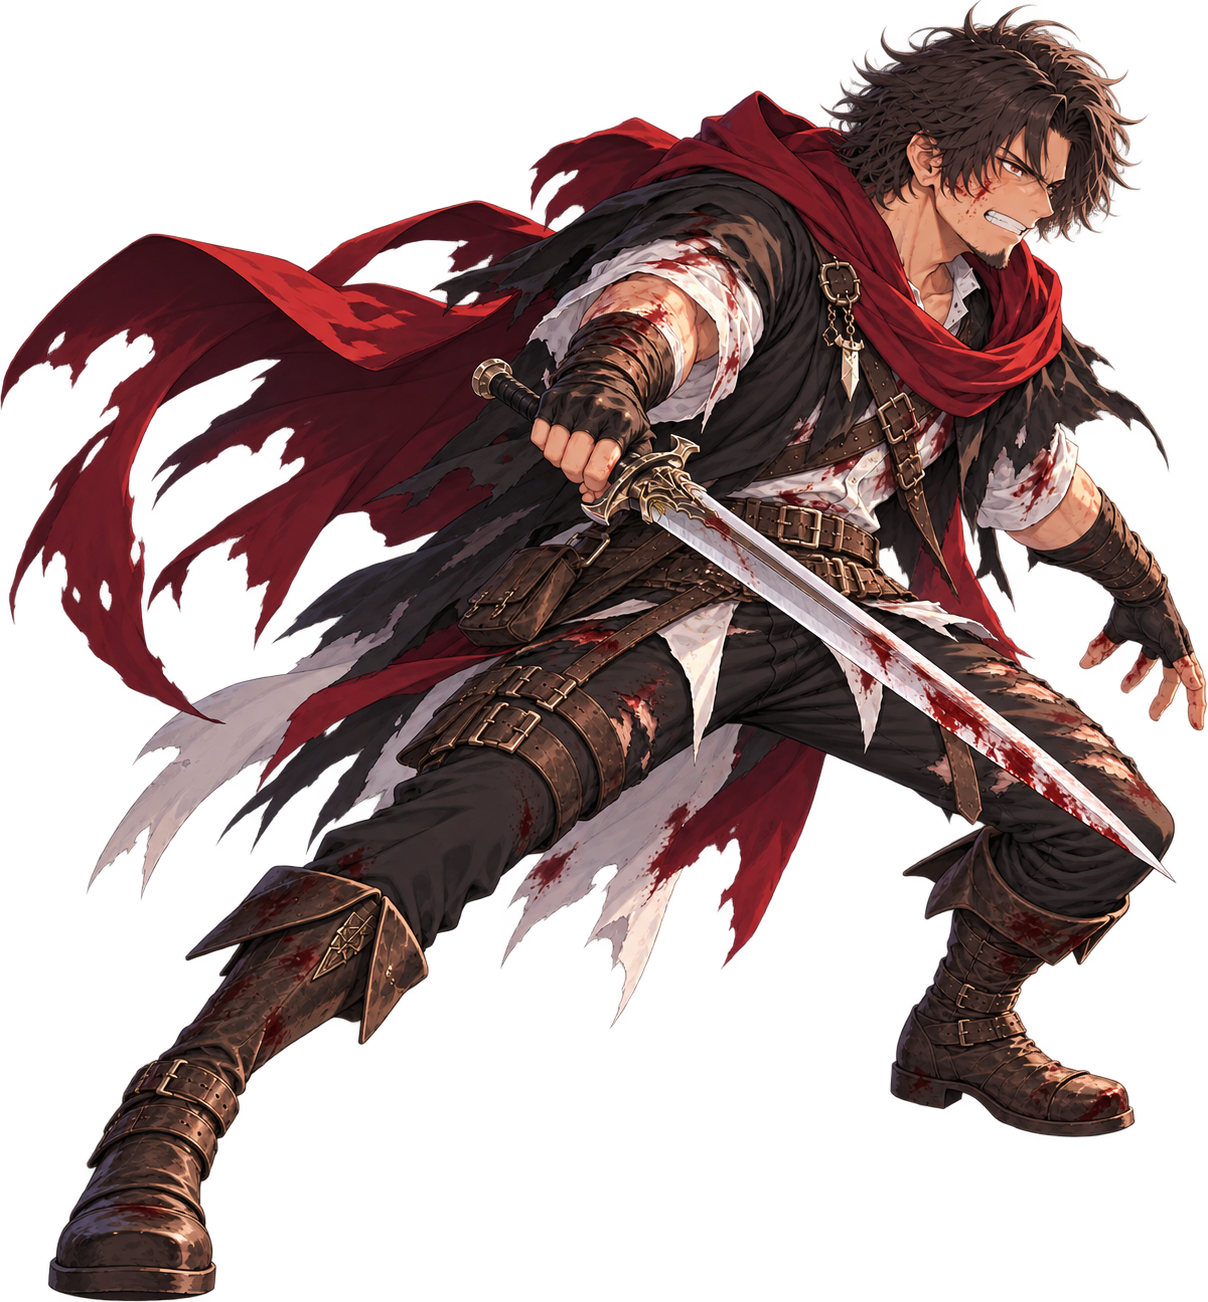
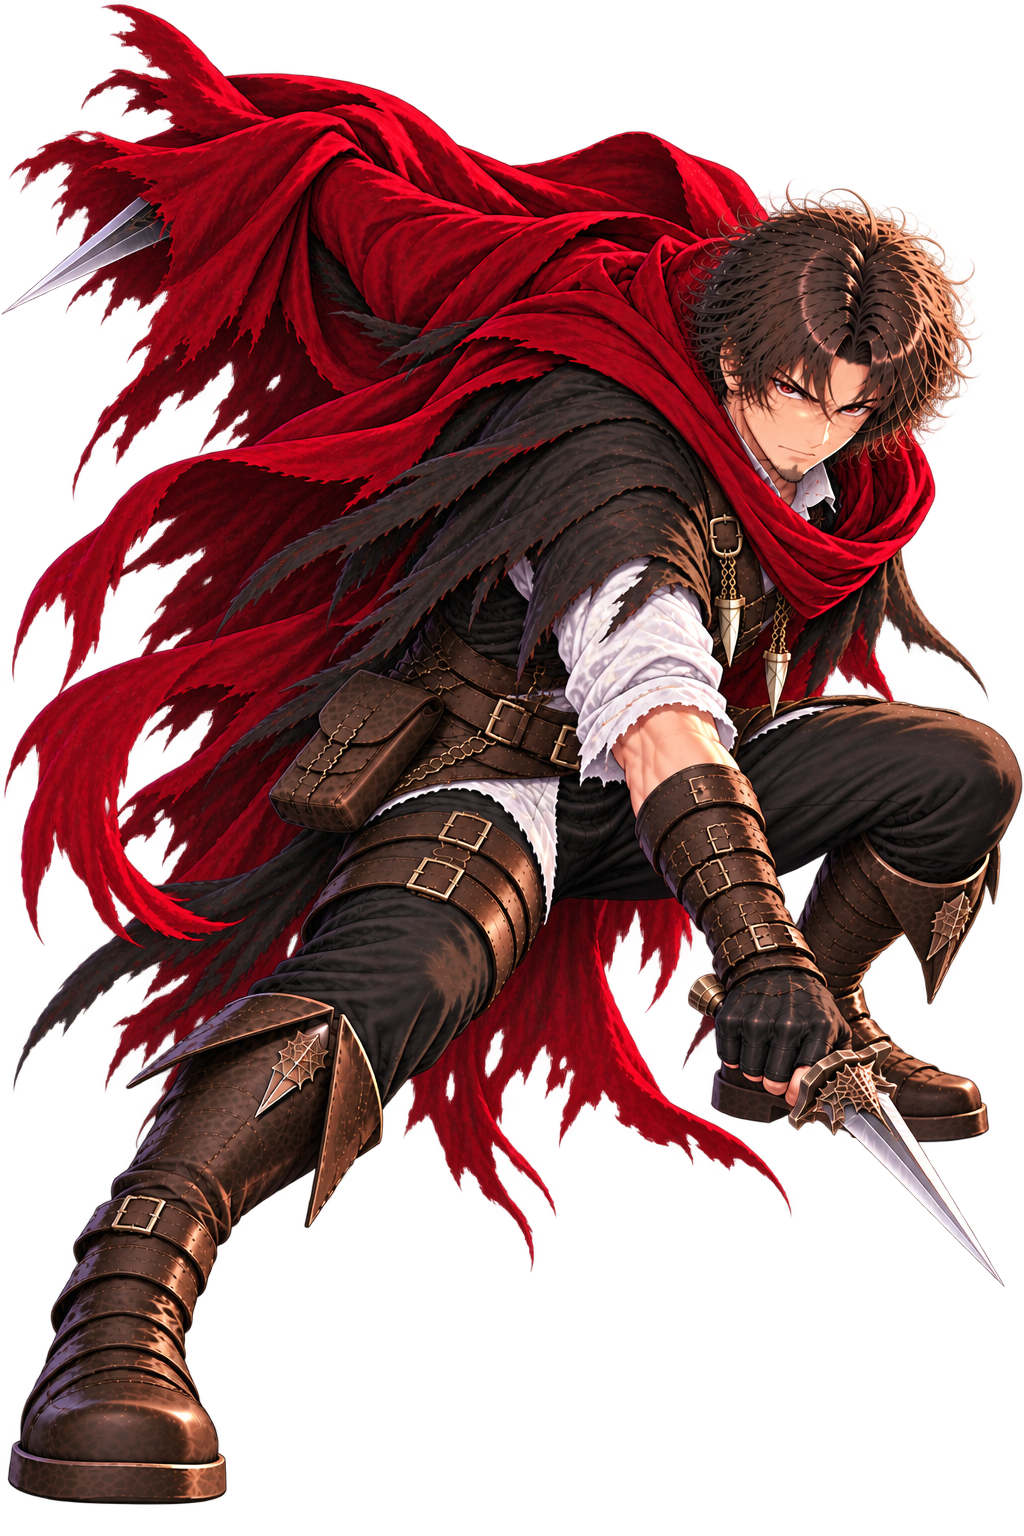
Redraw Gald: the man you meet, fight, and decide about
Three delivered pictures of one new design, used exactly as delivered —
byte-identical to what arrived, nothing cropped, nothing re-encoded,
nothing cut out by me. The old brown-hooded bandit is gone from the
encounter, the fight and the four answers.

Two of them are transparent cut-outs and go where cut-outs are needed:
he stands on the forest path to say "stop", and he lunges on the
battlefield with a dagger in each hand.

The third is not, and it took a screenshot to see what that meant. On
the framed card the four answers are asked over, the black it is drawn
on reads as the frame and the picture is the best of the three. On the
battlefield the same picture is a black rectangle sitting on the forest
floor, because a figure that stands on ground has to be cut out.

So it is registered as the close-up it is rather than as the
battlefield pose it is not. The screen that frames him asks for the
close-up; the field asks for "beaten", finds nothing, and falls back to
his fighting pose — the same man, cut out, for the second and a half
between the last blow and the question. A test holds that arrangement
and will notice when a transparent version of the kneeling pose
arrives, which is where it belongs.

Still the old man, for want of art: face down where the fight left him,
and the three lives three years on.

Claude-Session: https://claude.ai/code/session_01ECZrs1cydr2xwp55rvWdYK

diff --git a/mugen-zero/src/assets/manifest.ts b/mugen-zero/src/assets/manifest.ts
@@ -4,8 +4,8 @@
 
 import kaosNormal from './characters/kaos/kaos-normal.webp';
 import kaosSmile from './characters/kaos/kaos-smile.webp';
-import galdReady from './characters/gald/gald-ready.webp';
-import galdDefeated from './characters/gald/gald-defeated.webp';
+import galdReady from './characters/gald/gald-ready.png';
+import galdDefeated from './characters/gald/gald-defeated.png';
 import galdBaker from './characters/gald/gald-baker.webp';
 import galdHealer from './characters/gald/gald-healer.webp';
 import galdWorker from './characters/gald/gald-worker.webp';
@@ -45,25 +45,43 @@ export function kaosPortrait(expression: KaosExpression = 'normal'): string | nu
  * in the game names any of them — content/art/partyArt.ts maps these
  * onto art states, and every screen asks the art layer.
  *
- *   ready        gald-ready.webp         standing, before the fight —
- *                                        also his talk / event picture
- *   defeated     gald-defeated.webp      beaten, on one knee, still
+ *   ready        gald-ready.png          standing, before the fight —
+ *                                        his encounter / talk picture.
+ *                                        TRANSPARENT
+ *   defeated     gald-defeated.png       beaten, on one knee, still
  *                                        looking at you. The four
- *                                        answers are asked over this
+ *                                        answers are asked over this,
+ *                                        and the battlefield shows it
+ *                                        the moment he goes down.
+ *                                        OPAQUE — see the note below
  *   battleIdle   gald-battle-idle.png    his fighting pose on the
  *                                        battlefield. TRANSPARENT, and
  *                                        used exactly as delivered
  *   battleDown   gald-battle-down.png    face down where the fight left
- *                                        him. TRANSPARENT
+ *                                        him. TRANSPARENT. STILL THE
+ *                                        OLD DESIGN — no replacement
+ *                                        has been drawn for it yet
  *   baker        gald-baker.webp     ┐
  *   healer       gald-healer.webp    ├   three years on, one per
  *   worker       gald-worker.webp    ┘   surviving route
  *   graveEventCg event-gald-grave.webp    the KILL route, where there
  *                                        is no Gald left to draw
  *
- * The two PNGs are transparent cut-outs and the rest are webp scenes;
- * that difference is deliberate and load-bearing — a battlefield figure
+ * WHICH OF THEM ARE CUT OUT, and why it matters: a battlefield figure
  * with a background baked into it cannot stand on the forest floor.
+ * `battleIdle`, `ready` and `battleDown` are transparent and are the
+ * ones drawn over the field and over a backdrop.
+ *
+ * `defeated` is NOT, and has never been: the slot has held an opaque
+ * picture since it existed, and the delivered replacement is opaque
+ * too. It is the one place the game draws a rectangle rather than a
+ * person, and the new one is on black where the old one was on dark
+ * olive, so it reads as a harder edge. Worth a transparent version when
+ * there is one; not a regression introduced here.
+ *
+ * WHAT IS STILL THE OLD MAN: `battleDown`, and the three lives —
+ * baker, healer, worker. He was redesigned from the ground up, so those
+ * four are a different person until they are redrawn.
  */
 const GALD_FILES = {
   ready: galdReady,

diff --git a/mugen-zero/src/content/art/partyArt.ts b/mugen-zero/src/content/art/partyArt.ts
@@ -105,17 +105,31 @@ export const GALD_ART: PartyArtSet = {
     // His fighting pose, delivered as a transparent PNG. He stands on
     // the left of the field and looks across it, so he faces right.
     battle_idle: { src: BATTLE_FIGURES.gald, facing: 'right' },
+    // NOT `battle_damage`, and that is the whole of this entry.
+    //
     // Beaten and on one knee: still looking at you, and still to be
-    // decided about. Not the same picture as being face down.
-    battle_damage: GALD_PORTRAITS.defeated ? { src: GALD_PORTRAITS.defeated } : undefined,
+    // decided about. It is drawn on black, and it is meant to be — in
+    // the framed card the four answers are asked over, the black reads
+    // as the frame. On the FIELD the same picture is a black rectangle
+    // sitting on the forest floor, because a battlefield figure has to
+    // be cut out and this one is not.
+    //
+    // So it is registered as the close-up it is. The field asks for
+    // `battle_damage`, finds nothing, and falls back to his fighting
+    // pose — the same man, cut out, for the second and a half between
+    // the last blow and the question. When a transparent version of
+    // this pose exists it goes back to `battle_damage` and both places
+    // get the right picture.
+    portrait: GALD_PORTRAITS.defeated ? { src: GALD_PORTRAITS.defeated } : undefined,
     // Face down where the fight left him. No `facing`: he is lying with
     // his head towards the trees and his hand towards the party, and
     // mirroring that would have him reaching the wrong way.
     battle_down: GALD_BATTLE_DOWN ? { src: GALD_BATTLE_DOWN } : undefined,
     // No talking picture drawn yet: a conversation falls back to the
     // whole figure and shows the top of it. See CharacterArt's `bust`.
+    // Standing, before any of it. His encounter and conversation
+    // picture, and a cut-out, so it can be drawn over a backdrop.
     fullbody: GALD_PORTRAITS.ready ? { src: GALD_PORTRAITS.ready } : undefined,
-    portrait: GALD_PORTRAITS.ready ? { src: GALD_PORTRAITS.ready } : undefined,
   },
 };
 

diff --git a/mugen-zero/src/core/art/talkArt.test.ts b/mugen-zero/src/core/art/talkArt.test.ts
@@ -33,7 +33,21 @@ describe('Gald', () => {
   it('has a picture for the fight and a picture for being face down', () => {
     expect(partyArtFor('gald', 'battle_idle').substituted).toBe(false);
     expect(partyArtFor('gald', 'battle_down').substituted).toBe(false);
-    expect(partyArtFor('gald', 'battle_damage').substituted).toBe(false);
+  });
+
+  it('stands in for being beaten rather than putting a black card on the field', () => {
+    // The picture of him on one knee is drawn on black, for the framed
+    // card the four answers are asked over. On the battlefield it would
+    // be a rectangle, so it is registered as the close-up it is and the
+    // field falls back to his fighting pose — the same man, cut out.
+    // A transparent version of that pose belongs in `battle_damage`,
+    // and this test is what will notice when one arrives.
+    const beaten = partyArtFor('gald', 'battle_damage');
+    expect(beaten.placeholder, 'never nothing').toBe(false);
+    expect(beaten.state).toBe('battle_idle');
+    expect(beaten.substituted, 'and says it stood in').toBe(true);
+    // The close-up itself is his own picture, not a stand-in.
+    expect(partyArtFor('gald', 'portrait').substituted).toBe(false);
   });
 
   it('has no talking picture yet, and falls back to the whole figure', () => {

diff --git a/mugen-zero/src/ui/screens/LifeChoiceScreen.tsx b/mugen-zero/src/ui/screens/LifeChoiceScreen.tsx
@@ -29,7 +29,9 @@ export function LifeChoiceScreen({ onChoose }: Props) {
   // Beaten and on one knee, still looking at you: the question is open,
   // which is what this screen is for. Asked of the art layer by state
   // rather than named as a file.
-  const portrait = partyArtFor('gald', 'battle_damage').asset?.src ?? null;
+  // The close-up, not the battlefield pose: this screen shows him in a
+  // frame, and the picture of him beaten is drawn for a frame.
+  const portrait = partyArtFor('gald', 'portrait').asset?.src ?? null;
 
   const choose = async (choice: LifeChoiceId) => {
     if (saving) return;
